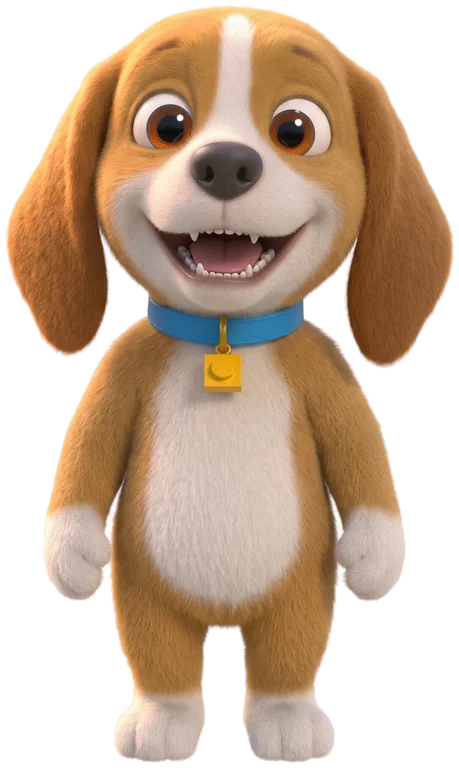
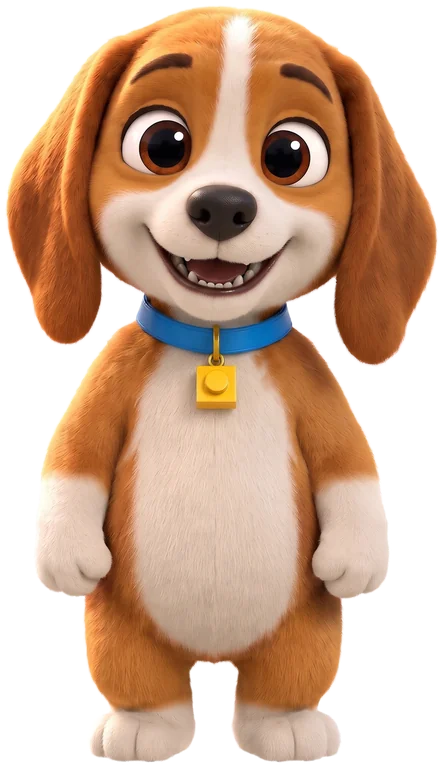
design(D2c): regenerated Gemini art, mouth frames aligned to kubik-idle

diff --git a/design/v2/gallery.html b/design/v2/gallery.html
@@ -23,7 +23,7 @@ body.only-marked .card:not(.flag-redo):not(.flag-check):not(.marked){display:non
 </style></head>
 <body data-bg="checker">
 <header><h1>Галерея картинок Klockowo</h1>
-<p>154 з 154 · 8.9 МБ · позначок перевірки: 6 перегенерувати, 5 глянути</p>
+<p>154 з 154 · 9.0 МБ · позначок перевірки: 0 перегенерувати, 2 глянути</p>
 <div class="tools">
 <button data-bg="checker" aria-pressed="true">Шахівка</button><button data-bg="dark">Темне</button><button data-bg="sky">Небо</button><button data-bg="grass">Трава</button>
 <button id="only">Лише позначені</button><button id="copy">Копіювати список</button></div></header>
@@ -69,13 +69,13 @@ body.only-marked .card:not(.flag-redo):not(.flag-check):not(.marked){display:non
 <label class="redo"><input type="checkbox" data-redo="kubik-celebrating"> перегенерувати</label>
 </article>
 <article class="card" data-id="kubik-encouraging">
-<div class="pic"><img src="../../src/assets/v2/kubik/kubik-encouraging.webp" alt="kubik-encouraging" loading="lazy" width="380" height="626"></div>
-<p class="id">kubik-encouraging</p><p class="meta">380×626 · 31 КБ</p>
+<div class="pic"><img src="../../src/assets/v2/kubik/kubik-encouraging.webp" alt="kubik-encouraging" loading="lazy" width="440" height="768"></div>
+<p class="id">kubik-encouraging</p><p class="meta">440×768 · 52 КБ</p>
 <label class="redo"><input type="checkbox" data-redo="kubik-encouraging"> перегенерувати</label>
 </article>
 <article class="card" data-id="kubik-waving">
-<div class="pic"><img src="../../src/assets/v2/kubik/kubik-waving.webp" alt="kubik-waving" loading="lazy" width="397" height="625"></div>
-<p class="id">kubik-waving</p><p class="meta">397×625 · 32 КБ</p>
+<div class="pic"><img src="../../src/assets/v2/kubik/kubik-waving.webp" alt="kubik-waving" loading="lazy" width="495" height="768"></div>
+<p class="id">kubik-waving</p><p class="meta">495×768 · 54 КБ</p>
 <label class="redo"><input type="checkbox" data-redo="kubik-waving"> перегенерувати</label>
 </article></div></section>
 <section id="set-kubik-2"><h2>Kubik: ще пози й рот <small>10</small></h2><div class="grid"><article class="card" data-id="kubik-surprised">
@@ -99,38 +99,38 @@ body.only-marked .card:not(.flag-redo):not(.flag-check):not(.marked){display:non
 <label class="redo"><input type="checkbox" data-redo="kubik-sleepy"> перегенерувати</label>
 </article>
 <article class="card" data-id="kubik-break-jump">
-<div class="pic"><img src="../../src/assets/v2/kubik/kubik-break-jump.webp" alt="kubik-break-jump" loading="lazy" width="620" height="768"></div>
-<p class="id">kubik-break-jump</p><p class="meta">620×768 · 62 КБ</p>
+<div class="pic"><img src="../../src/assets/v2/kubik/kubik-break-jump.webp" alt="kubik-break-jump" loading="lazy" width="630" height="768"></div>
+<p class="id">kubik-break-jump</p><p class="meta">630×768 · 57 КБ</p>
 <label class="redo"><input type="checkbox" data-redo="kubik-break-jump"> перегенерувати</label>
 </article>
 <article class="card" data-id="kubik-break-clap">
-<div class="pic"><img src="../../src/assets/v2/kubik/kubik-break-clap.webp" alt="kubik-break-clap" loading="lazy" width="543" height="768"></div>
-<p class="id">kubik-break-clap</p><p class="meta">543×768 · 49 КБ</p>
+<div class="pic"><img src="../../src/assets/v2/kubik/kubik-break-clap.webp" alt="kubik-break-clap" loading="lazy" width="546" height="768"></div>
+<p class="id">kubik-break-clap</p><p class="meta">546×768 · 53 КБ</p>
 <label class="redo"><input type="checkbox" data-redo="kubik-break-clap"> перегенерувати</label>
 </article>
 <article class="card" data-id="kubik-break-stomp">
-<div class="pic"><img src="../../src/assets/v2/kubik/kubik-break-stomp.webp" alt="kubik-break-stomp" loading="lazy" width="586" height="768"></div>
-<p class="id">kubik-break-stomp</p><p class="meta">586×768 · 65 КБ</p>
+<div class="pic"><img src="../../src/assets/v2/kubik/kubik-break-stomp.webp" alt="kubik-break-stomp" loading="lazy" width="501" height="768"></div>
+<p class="id">kubik-break-stomp</p><p class="meta">501×768 · 60 КБ</p>
 <label class="redo"><input type="checkbox" data-redo="kubik-break-stomp"> перегенерувати</label>
 </article>
-<article class="card flag-redo" data-id="kubik-talking-a">
-<div class="pic"><img src="../../src/assets/v2/kubik/kubik-talking-a.webp" alt="kubik-talking-a" loading="lazy" width="545" height="768"></div>
-<p class="id">kubik-talking-a</p><p class="meta">545×768 · 56 КБ</p><p class="note redo">Перегенерувати: не правка kubik-idle: Kubik перемальований (менший, інший тон хутра) — кадр рота не ляже поверх idle. Новий чат, прикріпити лише kubik-idle.png</p>
-<label class="redo"><input type="checkbox" data-redo="kubik-talking-a" data-suggest> перегенерувати</label>
+<article class="card" data-id="kubik-talking-a">
+<div class="pic"><img src="../../src/assets/v2/kubik/kubik-talking-a.webp" alt="kubik-talking-a" loading="lazy" width="444" height="768"></div>
+<p class="id">kubik-talking-a</p><p class="meta">444×768 · 51 КБ</p>
+<label class="redo"><input type="checkbox" data-redo="kubik-talking-a"> перегенерувати</label>
 </article>
-<article class="card flag-redo" data-id="kubik-talking-e">
-<div class="pic"><img src="../../src/assets/v2/kubik/kubik-talking-e.webp" alt="kubik-talking-e" loading="lazy" width="459" height="768"></div>
-<p class="id">kubik-talking-e</p><p class="meta">459×768 · 56 КБ</p><p class="note redo">Перегенерувати: те саме, що talking-a; до того ж не збігається з talking-a і talking-o</p>
-<label class="redo"><input type="checkbox" data-redo="kubik-talking-e" data-suggest> перегенерувати</label>
+<article class="card" data-id="kubik-talking-e">
+<div class="pic"><img src="../../src/assets/v2/kubik/kubik-talking-e.webp" alt="kubik-talking-e" loading="lazy" width="444" height="768"></div>
+<p class="id">kubik-talking-e</p><p class="meta">444×768 · 52 КБ</p>
+<label class="redo"><input type="checkbox" data-redo="kubik-talking-e"> перегенерувати</label>
 </article>
-<article class="card flag-redo" data-id="kubik-talking-o">
-<div class="pic"><img src="../../src/assets/v2/kubik/kubik-talking-o.webp" alt="kubik-talking-o" loading="lazy" width="573" height="768"></div>
-<p class="id">kubik-talking-o</p><p class="meta">573×768 · 56 КБ</p><p class="note redo">Перегенерувати: те саме, що talking-a</p>
-<label class="redo"><input type="checkbox" data-redo="kubik-talking-o" data-suggest> перегенерувати</label>
+<article class="card" data-id="kubik-talking-o">
+<div class="pic"><img src="../../src/assets/v2/kubik/kubik-talking-o.webp" alt="kubik-talking-o" loading="lazy" width="444" height="768"></div>
+<p class="id">kubik-talking-o</p><p class="meta">444×768 · 52 КБ</p>
+<label class="redo"><input type="checkbox" data-redo="kubik-talking-o"> перегенерувати</label>
 </article></div></section>
-<section id="set-kubik-3"><h2>Kubik у світах <small>14</small></h2><div class="grid"><article class="card flag-check" data-id="kubik-w1-idle">
-<div class="pic"><img src="../../src/assets/v2/kubik/kubik-w1-idle.webp" alt="kubik-w1-idle" loading="lazy" width="413" height="768"></div>
-<p class="id">kubik-w1-idle</p><p class="meta">413×768 · 52 КБ</p><p class="note check">Глянути: перемальований, а не правка kubik-idle: хутро темніше, кадр зсунутий (у решти світів — точна правка)</p>
+<section id="set-kubik-3"><h2>Kubik у світах <small>14</small></h2><div class="grid"><article class="card" data-id="kubik-w1-idle">
+<div class="pic"><img src="../../src/assets/v2/kubik/kubik-w1-idle.webp" alt="kubik-w1-idle" loading="lazy" width="421" height="768"></div>
+<p class="id">kubik-w1-idle</p><p class="meta">421×768 · 56 КБ</p>
 <label class="redo"><input type="checkbox" data-redo="kubik-w1-idle"> перегенерувати</label>
 </article>
 <article class="card" data-id="kubik-w1-happy">
@@ -274,8 +274,8 @@ body.only-marked .card:not(.flag-redo):not(.flag-check):not(.marked){display:non
 <label class="redo"><input type="checkbox" data-redo="pup-pudel"> перегенерувати</label>
 </article>
 <article class="card flag-check" data-id="pup-chart">
-<div class="pic"><img src="../../src/assets/v2/pups/pup-chart.webp" alt="pup-chart" loading="lazy" width="557" height="768"></div>
-<p class="id">pup-chart</p><p class="meta">557×768 · 56 КБ</p><p class="note check">Глянути: схожий на дорослого хорта, а не на цуценя; дуже вузький поруч з іншими</p>
+<div class="pic"><img src="../../src/assets/v2/pups/pup-chart.webp" alt="pup-chart" loading="lazy" width="425" height="768"></div>
+<p class="id">pup-chart</p><p class="meta">425×768 · 50 КБ</p><p class="note check">Глянути: D2c: перегенерований, але й досі схожий на дорослого хорта, а не на цуценя; дуже вузький поруч з іншими</p>
 <label class="redo"><input type="checkbox" data-redo="pup-chart"> перегенерувати</label>
 </article>
 <article class="card" data-id="pup-papillon">
@@ -363,10 +363,10 @@ body.only-marked .card:not(.flag-redo):not(.flag-check):not(.marked){display:non
 <p class="id">animal-sowa</p><p class="meta">488×575 · 58 КБ</p>
 <label class="redo"><input type="checkbox" data-redo="animal-sowa"> перегенерувати</label>
 </article>
-<article class="card flag-redo" data-id="animal-sowa-happy">
-<div class="pic"><img src="../../src/assets/v2/animals/animal-sowa-happy.webp" alt="animal-sowa-happy" loading="lazy" width="488" height="575"></div>
-<p class="id">animal-sowa-happy</p><p class="meta">488×575 · 58 КБ</p><p class="note redo">Перегенерувати: той самий файл, що animal-sowa (не радісна)</p>
-<label class="redo"><input type="checkbox" data-redo="animal-sowa-happy" data-suggest> перегенерувати</label>
+<article class="card" data-id="animal-sowa-happy">
+<div class="pic"><img src="../../src/assets/v2/animals/animal-sowa-happy.webp" alt="animal-sowa-happy" loading="lazy" width="653" height="561"></div>
+<p class="id">animal-sowa-happy</p><p class="meta">653×561 · 48 КБ</p>
+<label class="redo"><input type="checkbox" data-redo="animal-sowa-happy"> перегенерувати</label>
 </article>
 <article class="card" data-id="animal-myszka">
 <div class="pic"><img src="../../src/assets/v2/animals/animal-myszka.webp" alt="animal-myszka" loading="lazy" width="417" height="535"></div>
@@ -378,9 +378,9 @@ body.only-marked .card:not(.flag-redo):not(.flag-check):not(.marked){display:non
 <p class="id">animal-myszka-happy</p><p class="meta">458×541 · 27 КБ</p>
 <label class="redo"><input type="checkbox" data-redo="animal-myszka-happy"> перегенерувати</label>
 </article></div></section>
-<section id="set-items-1"><h2>Предмети W1–W3 <small>12</small></h2><div class="grid"><article class="card flag-check" data-id="item-biedronka">
-<div class="pic"><img src="../../src/assets/v2/items/item-biedronka.webp" alt="item-biedronka" loading="lazy" width="512" height="428"></div>
-<p class="id">item-biedronka</p><p class="meta">512×428 · 19 КБ</p><p class="note check">Глянути: чорна голова завелика — сонечко схоже на півкулю; у малому розмірі впізнається гірше</p>
+<section id="set-items-1"><h2>Предмети W1–W3 <small>12</small></h2><div class="grid"><article class="card" data-id="item-biedronka">
+<div class="pic"><img src="../../src/assets/v2/items/item-biedronka.webp" alt="item-biedronka" loading="lazy" width="512" height="465"></div>
+<p class="id">item-biedronka</p><p class="meta">512×465 · 23 КБ</p>
 <label class="redo"><input type="checkbox" data-redo="item-biedronka"> перегенерувати</label>
 </article>
 <article class="card" data-id="item-motyl">
@@ -548,10 +548,10 @@ body.only-marked .card:not(.flag-redo):not(.flag-check):not(.marked){display:non
 <p class="id">digit-5</p><p class="meta">342×444 · 17 КБ</p>
 <label class="redo"><input type="checkbox" data-redo="digit-5"> перегенерувати</label>
 </article>
-<article class="card flag-redo" data-id="digit-6">
-<div class="pic"><img src="../../src/assets/v2/digits/digit-6.webp" alt="digit-6" loading="lazy" width="321" height="485"></div>
-<p class="id">digit-6</p><p class="meta">321×485 · 20 КБ</p><p class="note redo">Перегенерувати: у розмірі плитки (≈ 70 px) не читається — схожа на 0 / 8; простіша форма, менше кольорів</p>
-<label class="redo"><input type="checkbox" data-redo="digit-6" data-suggest> перегенерувати</label>
+<article class="card" data-id="digit-6">
+<div class="pic"><img src="../../src/assets/v2/digits/digit-6.webp" alt="digit-6" loading="lazy" width="373" height="512"></div>
+<p class="id">digit-6</p><p class="meta">373×512 · 29 КБ</p>
+<label class="redo"><input type="checkbox" data-redo="digit-6"> перегенерувати</label>
 </article>
 <article class="card" data-id="digit-7">
 <div class="pic"><img src="../../src/assets/v2/digits/digit-7.webp" alt="digit-7" loading="lazy" width="376" height="470"></div>
@@ -563,10 +563,10 @@ body.only-marked .card:not(.flag-redo):not(.flag-check):not(.marked){display:non
 <p class="id">digit-8</p><p class="meta">382×484 · 21 КБ</p>
 <label class="redo"><input type="checkbox" data-redo="digit-8"> перегенерувати</label>
 </article>
-<article class="card flag-redo" data-id="digit-9">
-<div class="pic"><img src="../../src/assets/v2/digits/digit-9.webp" alt="digit-9" loading="lazy" width="508" height="512"></div>
-<p class="id">digit-9</p><p class="meta">508×512 · 27 КБ</p><p class="note redo">Перегенерувати: у розмірі плитки не читається — схожа на 8</p>
-<label class="redo"><input type="checkbox" data-redo="digit-9" data-suggest> перегенерувати</label>
+<article class="card" data-id="digit-9">
+<div class="pic"><img src="../../src/assets/v2/digits/digit-9.webp" alt="digit-9" loading="lazy" width="376" height="512"></div>
+<p class="id">digit-9</p><p class="meta">376×512 · 29 КБ</p>
+<label class="redo"><input type="checkbox" data-redo="digit-9"> перегенерувати</label>
 </article></div></section>
 <section id="set-hands"><h2>Руки <small>6</small></h2><div class="grid"><article class="card" data-id="hand-0">
 <div class="pic"><img src="../../src/assets/v2/hands/hand-0.webp" alt="hand-0" loading="lazy" width="315" height="446"></div>
@@ -784,18 +784,18 @@ body.only-marked .card:not(.flag-redo):not(.flag-check):not(.marked){display:non
 <label class="redo"><input type="checkbox" data-redo="island-locked"> перегенерувати</label>
 </article>
 <article class="card" data-id="chest-locked">
-<div class="pic"><img src="../../src/assets/v2/world/chest-locked.webp" alt="chest-locked" loading="lazy" width="862" height="662"></div>
-<p class="id">chest-locked</p><p class="meta">862×662 · 71 КБ</p>
+<div class="pic"><img src="../../src/assets/v2/world/chest-locked.webp" alt="chest-locked" loading="lazy" width="831" height="727"></div>
+<p class="id">chest-locked</p><p class="meta">831×727 · 79 КБ</p>
 <label class="redo"><input type="checkbox" data-redo="chest-locked"> перегенерувати</label>
 </article>
-<article class="card flag-check" data-id="chest-ready">
-<div class="pic"><img src="../../src/assets/v2/world/chest-ready.webp" alt="chest-ready" loading="lazy" width="863" height="661"></div>
-<p class="id">chest-ready</p><p class="meta">863×661 · 74 КБ</p><p class="note check">Глянути: майже не відрізняється від chest-locked — сяйво ледь видно</p>
+<article class="card" data-id="chest-ready">
+<div class="pic"><img src="../../src/assets/v2/world/chest-ready.webp" alt="chest-ready" loading="lazy" width="850" height="728"></div>
+<p class="id">chest-ready</p><p class="meta">850×728 · 92 КБ</p>
 <label class="redo"><input type="checkbox" data-redo="chest-ready"> перегенерувати</label>
 </article>
 <article class="card" data-id="chest-open">
-<div class="pic"><img src="../../src/assets/v2/world/chest-open.webp" alt="chest-open" loading="lazy" width="727" height="695"></div>
-<p class="id">chest-open</p><p class="meta">727×695 · 80 КБ</p>
+<div class="pic"><img src="../../src/assets/v2/world/chest-open.webp" alt="chest-open" loading="lazy" width="759" height="768"></div>
+<p class="id">chest-open</p><p class="meta">759×768 · 83 КБ</p>
 <label class="redo"><input type="checkbox" data-redo="chest-open"> перегенерувати</label>
 </article></div></section></main>
 <script>

diff --git a/tools/art/process.py b/tools/art/process.py
@@ -14,6 +14,8 @@ GEN, OUT = 'design/v2/gen', 'src/assets/v2'
 SMALL = {'items', 'digits', 'hands'}
 WORK = {'small': 1024, 'big': 1280}  # rembg і matting — на зменшеній копії: швидше й уміщається в пам'ять, а для ≤ 768 px якості досить
 PAD = 6
+# Кадри рота — правки kubik-idle того самого розміру: маска й рамка обрізки беруться з idle, щоб кадри лягали піксель у піксель.
+FRAMES = {f'kubik-talking-{m}': 'kubik-idle' for m in 'aeo'}
 
 _session = None
 
@@ -77,8 +79,17 @@ def init():
     _session = new_session('isnet-general-use')
 
 
-def work(a):
+def cut(im):
     from rembg import remove
+    try:
+        out = remove(im, session=_session, alpha_matting=True, alpha_matting_foreground_threshold=240,
+                     alpha_matting_background_threshold=15, alpha_matting_erode_size=8)
+    except MemoryError:
+        out = remove(im, session=_session)  # без matting — краї трохи грубші
+    return clean_alpha(fill_inside(out.convert('RGBA'), im))
+
+
+def work(a):
     t = time.time()
     src = source(a['id'])
     if not src: return a['id'], 'missing', 0
@@ -90,13 +101,16 @@ def work(a):
     else:
         small = a['group'] in SMALL
         im = fit(im, *[WORK['small' if small else 'big']] * 2)
-        try:
-            out = remove(im, session=_session, alpha_matting=True, alpha_matting_foreground_threshold=240,
-                         alpha_matting_background_threshold=15, alpha_matting_erode_size=8)
-        except MemoryError:
-            out = remove(im, session=_session)  # без matting — краї трохи грубші
-        out = clean_alpha(fill_inside(out.convert('RGBA'), im))
-        l, t2, r, b = out.getchannel('A').point(lambda v: 255 if v > 8 else 0).getbbox()
+        if a['id'] in FRAMES:
+            ref = fit(Image.open(source(FRAMES[a['id']])).convert('RGB'), *[WORK['big']] * 2)
+            assert ref.size == im.size, f"{a['id']}: розмір не як у {FRAMES[a['id']]}"
+            mask = cut(ref).getchannel('A')
+            out = im.convert('RGBA')
+            out.putalpha(mask)
+        else:
+            out = cut(im)
+            mask = out.getchannel('A')
+        l, t2, r, b = mask.point(lambda v: 255 if v > 8 else 0).getbbox()
         out = out.crop((max(0, l - PAD), max(0, t2 - PAD), min(out.width, r + PAD), min(out.height, b + PAD)))
         out = fit(out, 512, 512) if small else fit(out, 1024, 768)
         out.save(dst, 'WEBP', quality=85, method=6)

diff --git a/docs/PLAN.md b/docs/PLAN.md
@@ -200,9 +200,10 @@
 - Зробити: спільна сітка зон (HUD · провідник · дошка · відповіді) для гри й меню; альбомна й книжкова; перевірка всіх 19 екранів на 4 в'юпортах (жодних перетинів).
 - Після D2b: пупирці виступають на 9 px над цеглинкою, а край — на 7 px під нею, тож у стовпчику плиток (лоток 844×390) потрібен проміжок ≥ 16 px понад звичайний; «Gotowe» за D1 — 168×104 (зараз 120×88); у 844×390 «Dalej»/«Jeszcze raz» на Break, Error, No-voice — нижче краю (сторінка прокручується, так було й до D2b).
 
-### [ ] D2c — Перегенеровані картинки (до D4)
+### [x] D2c — Перегенеровані картинки (до D4)
 - Коли: власник перегенерував у Gemini картинки з позначкою «перегенерувати» в галереї (`tools/art/review.mjs`: `kubik-talking-a/e/o` — правкою `kubik-idle`, кадр і хутро мають збігтися; `animal-sowa-happy`; `digit-6`, `digit-9`) і, за бажанням, «глянути».
 - Зробити: забрати нові картинки, як у D2a (по одній `path` на запит), `python tools/art/process.py <id…>`, перевірити збіг кадрів рота з `kubik-idle` (різниця лише довкола рота), прибрати рядки з `review.mjs`, `node tools/art/gallery.mjs`.
+- Зроблено: 17 нових картинок зі сторінки-пакета (6 «перегенерувати», 4 «глянути» й 7 інших поз Kubika та скрині) → `src/assets/v2/`; кадри рота мають маску й рамку обрізки `kubik-idle` (`FRAMES` у `process.py`) — лягають піксель у піксель; у `review.mjs` лишились «глянути» `digit-4`, `pup-chart`.
 
 ### [ ] D4 — Персонажі
 - Зробити: Kubik, команда, «Twój piesek», тваринки на нових картинках (ті самі компоненти й пропси); рот — 3 кадри; аксесуари світів.
@@ -365,3 +366,6 @@
 - **2026-10-30 · D2a (гілка `feature/design-v2`).** Забрано всі 154 картинки зі сторінки-пакета (по одній на запит; масове читання сховища не працює) у `design/v2/gen/` — сирі файли в `.gitignore` (≈ 72 МБ, оригінали лишаються в сховищі пакета). На сторінці-пакеті переплутано фони `bg-w1`↔`bg-w2` і `bg-w4`↔`bg-w5` — виправлено перейменуванням (записи пакета не чіпав); `animal-sowa-happy` — той самий файл, що `animal-sowa`. `tools/art/process.py`: rembg isnet-general-use з alpha matting на зменшеній копії, суцільне нутро (світло-сіра ніжка грибка, низ вітряка були напівпрозорі), без дрібних плям, обрізка країв → `src/assets/v2/<group>/` 154 WebP, 9,3 МБ (персонажі, острови, споруди ≤ 768 px заввишки; предмети, цифри, руки ≤ 512; фони 1920×1080). У гру ще не підключено (D4–D6), precache без змін. Галерея `design/v2/gallery.html` (шахівка / темне / небо / трава, «Лише позначені», «Копіювати список»): перегенерувати 6 — `kubik-talking-a/e/o` (не правка `kubik-idle`: перемальований Kubik, кадр рота не ляже поверх idle), `animal-sowa-happy`, `digit-6`, `digit-9` (у розмірі плитки не читаються); глянути 5 — `kubik-w1-idle`, `digit-4`, `item-biedronka`, `pup-chart`, `chest-ready`. Полотно D1 (версія 39): Kubik, тваринки, предмети, цуценята, острови мапи, споруда W7, скрині й фони світів — нові картинки (`project/v2/`), мітки «ЗАГЛУШКА» прибрано, де картинка вже є; лишилась мама-качка (її немає в наборі). 1545 тестів; `build` і `test` проходять.
   Перевірити: `npm run dev` → http://localhost:5173/design/v2/gallery.html (позначки «перегенерувати» — відмітити свої, «Копіювати список»); полотно https://claude.ai/artifact/RTQ56FUUG3bX9Z3SqcYQbM.
   Відомі проблеми: цифри з різнокольорових цеглинок дрібно читаються погано — на плитках лишаємо шкільні SVG-цифри, цеглинкові — для прикрас (вирішити в D6); полотно після заміни не перевірялося скриншотами (правило типу Design); без пушу до згоди власника.
+- **2026-11-02 · D2c (гілка `feature/design-v2`).** Забрано 17 картинок, які власник перезавантажив на сторінку-пакет 01.11: `kubik-talking-a/e/o`, `animal-sowa-happy`, `digit-6`, `digit-9`; з «глянути» — `kubik-w1-idle`, `item-biedronka`, `pup-chart`, `chest-ready`; а ще `kubik-waving`, `kubik-encouraging`, `kubik-break-clap/jump/stomp`, `chest-locked`, `chest-open` (старі сирі файли не в git). Кадри рота тепер справжні правки `kubik-idle`: тіло й кадр ті самі, різниця — довкола рота (у «a» ще трохи підняті брови й ширші очі). `tools/art/process.py`: для `kubik-talking-*` маска й рамка обрізки беруться з `kubik-idle` — усі чотири 444×768, однакова прозорість (перевірено). `kubik-w1-idle` — точна правка (лише капелюх). Цифри 6 і 9 у розмірі плитки читаються; скриня «готова» без замка — відрізняється від замкненої. Галерея: перегенерувати 0, глянути 2.
+  Перевірити: `npm run dev` → http://localhost:5173/design/v2/gallery.html («Лише позначені»).
+  Відомі проблеми: `pup-chart` і досі худий дорослий хорт (замінити — за бажанням, до D4); `digit-4` у розмірі плитки читається насилу (на плитках — шкільні SVG-цифри, D6); без пушу до згоди власника.
